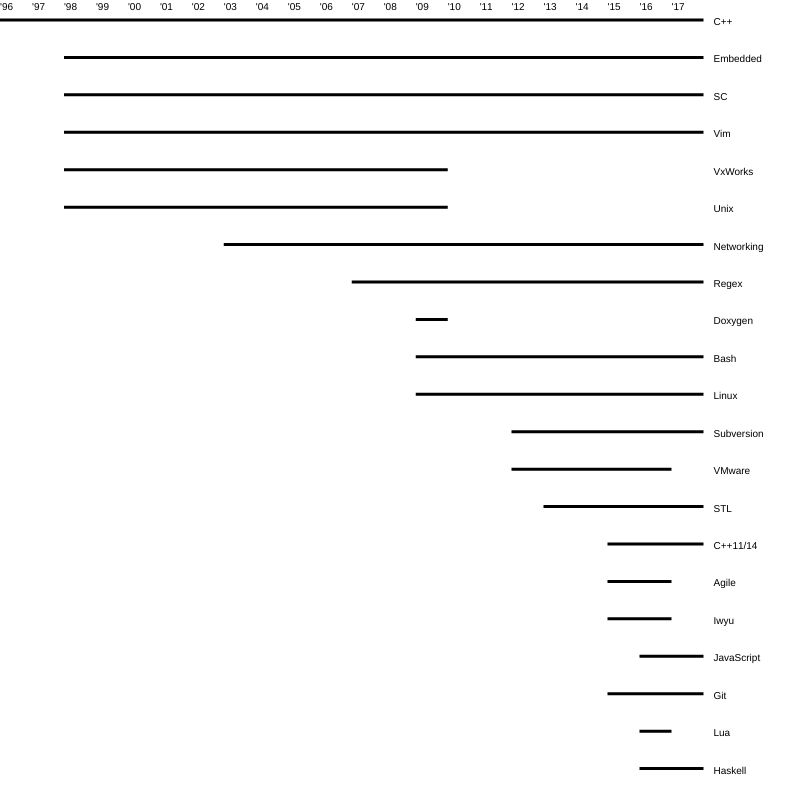
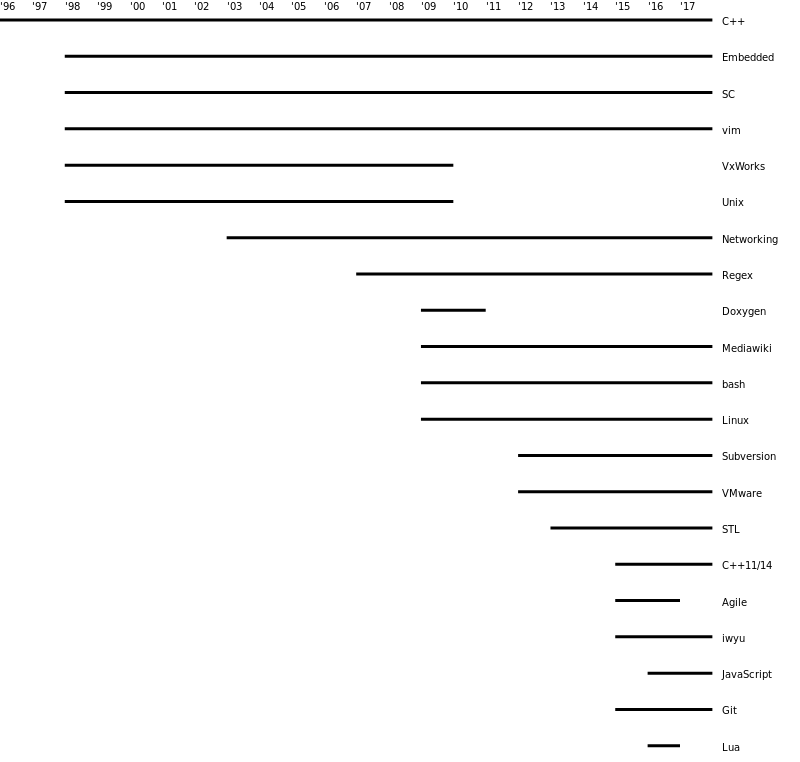
Add mediawiki

diff --git a/skills.html b/skills.html
@@ -14,26 +14,27 @@
 	const skills = [
 
 		["C++",			1996, now],
-		["Embedded",	1998, now],
+		["Embedded",      	1998, now],
 		["SC",			1998, now],
-		["Vim",			1998, now],
+		["vim",			1998, now],
 		["VxWorks",		1998, 2009],
 		["Unix",		1998, 2009],
-		["Networking",	2003, now],
+		["Networking",  	2003, now],
 		["Regex",		2007, now],
-		["Doxygen",		2009, 2009],
-		["Bash",		2009, now],
+		["Doxygen",		2009, 2010],
+		["Mediawiki",		2009, now],
+		["bash",		2009, now],
 		["Linux	",		2009, now],
-		["Subversion",	2012, now],
-		["VMware",		2012, 2016],
+		["Subversion",  	2012, now],
+		["VMware",		2012, now],
 		["STL",			2013, now],
-		["C++11/14",	2015, now],
+		["C++11/14",    	2015, now],
 		["Agile",		2015, 2016],
-		["Iwyu",		2015, 2016],
-		["JavaScript",	2016, now],
+		["iwyu",		2015, now],
+		["JavaScript",  	2016, now],
 		["Git",			2015, now],
 		["Lua",			2016, 2016],
-		["Haskell",		2016, now],
+		["Haskell",		2016, 2016],
 	]
 </script>
 
